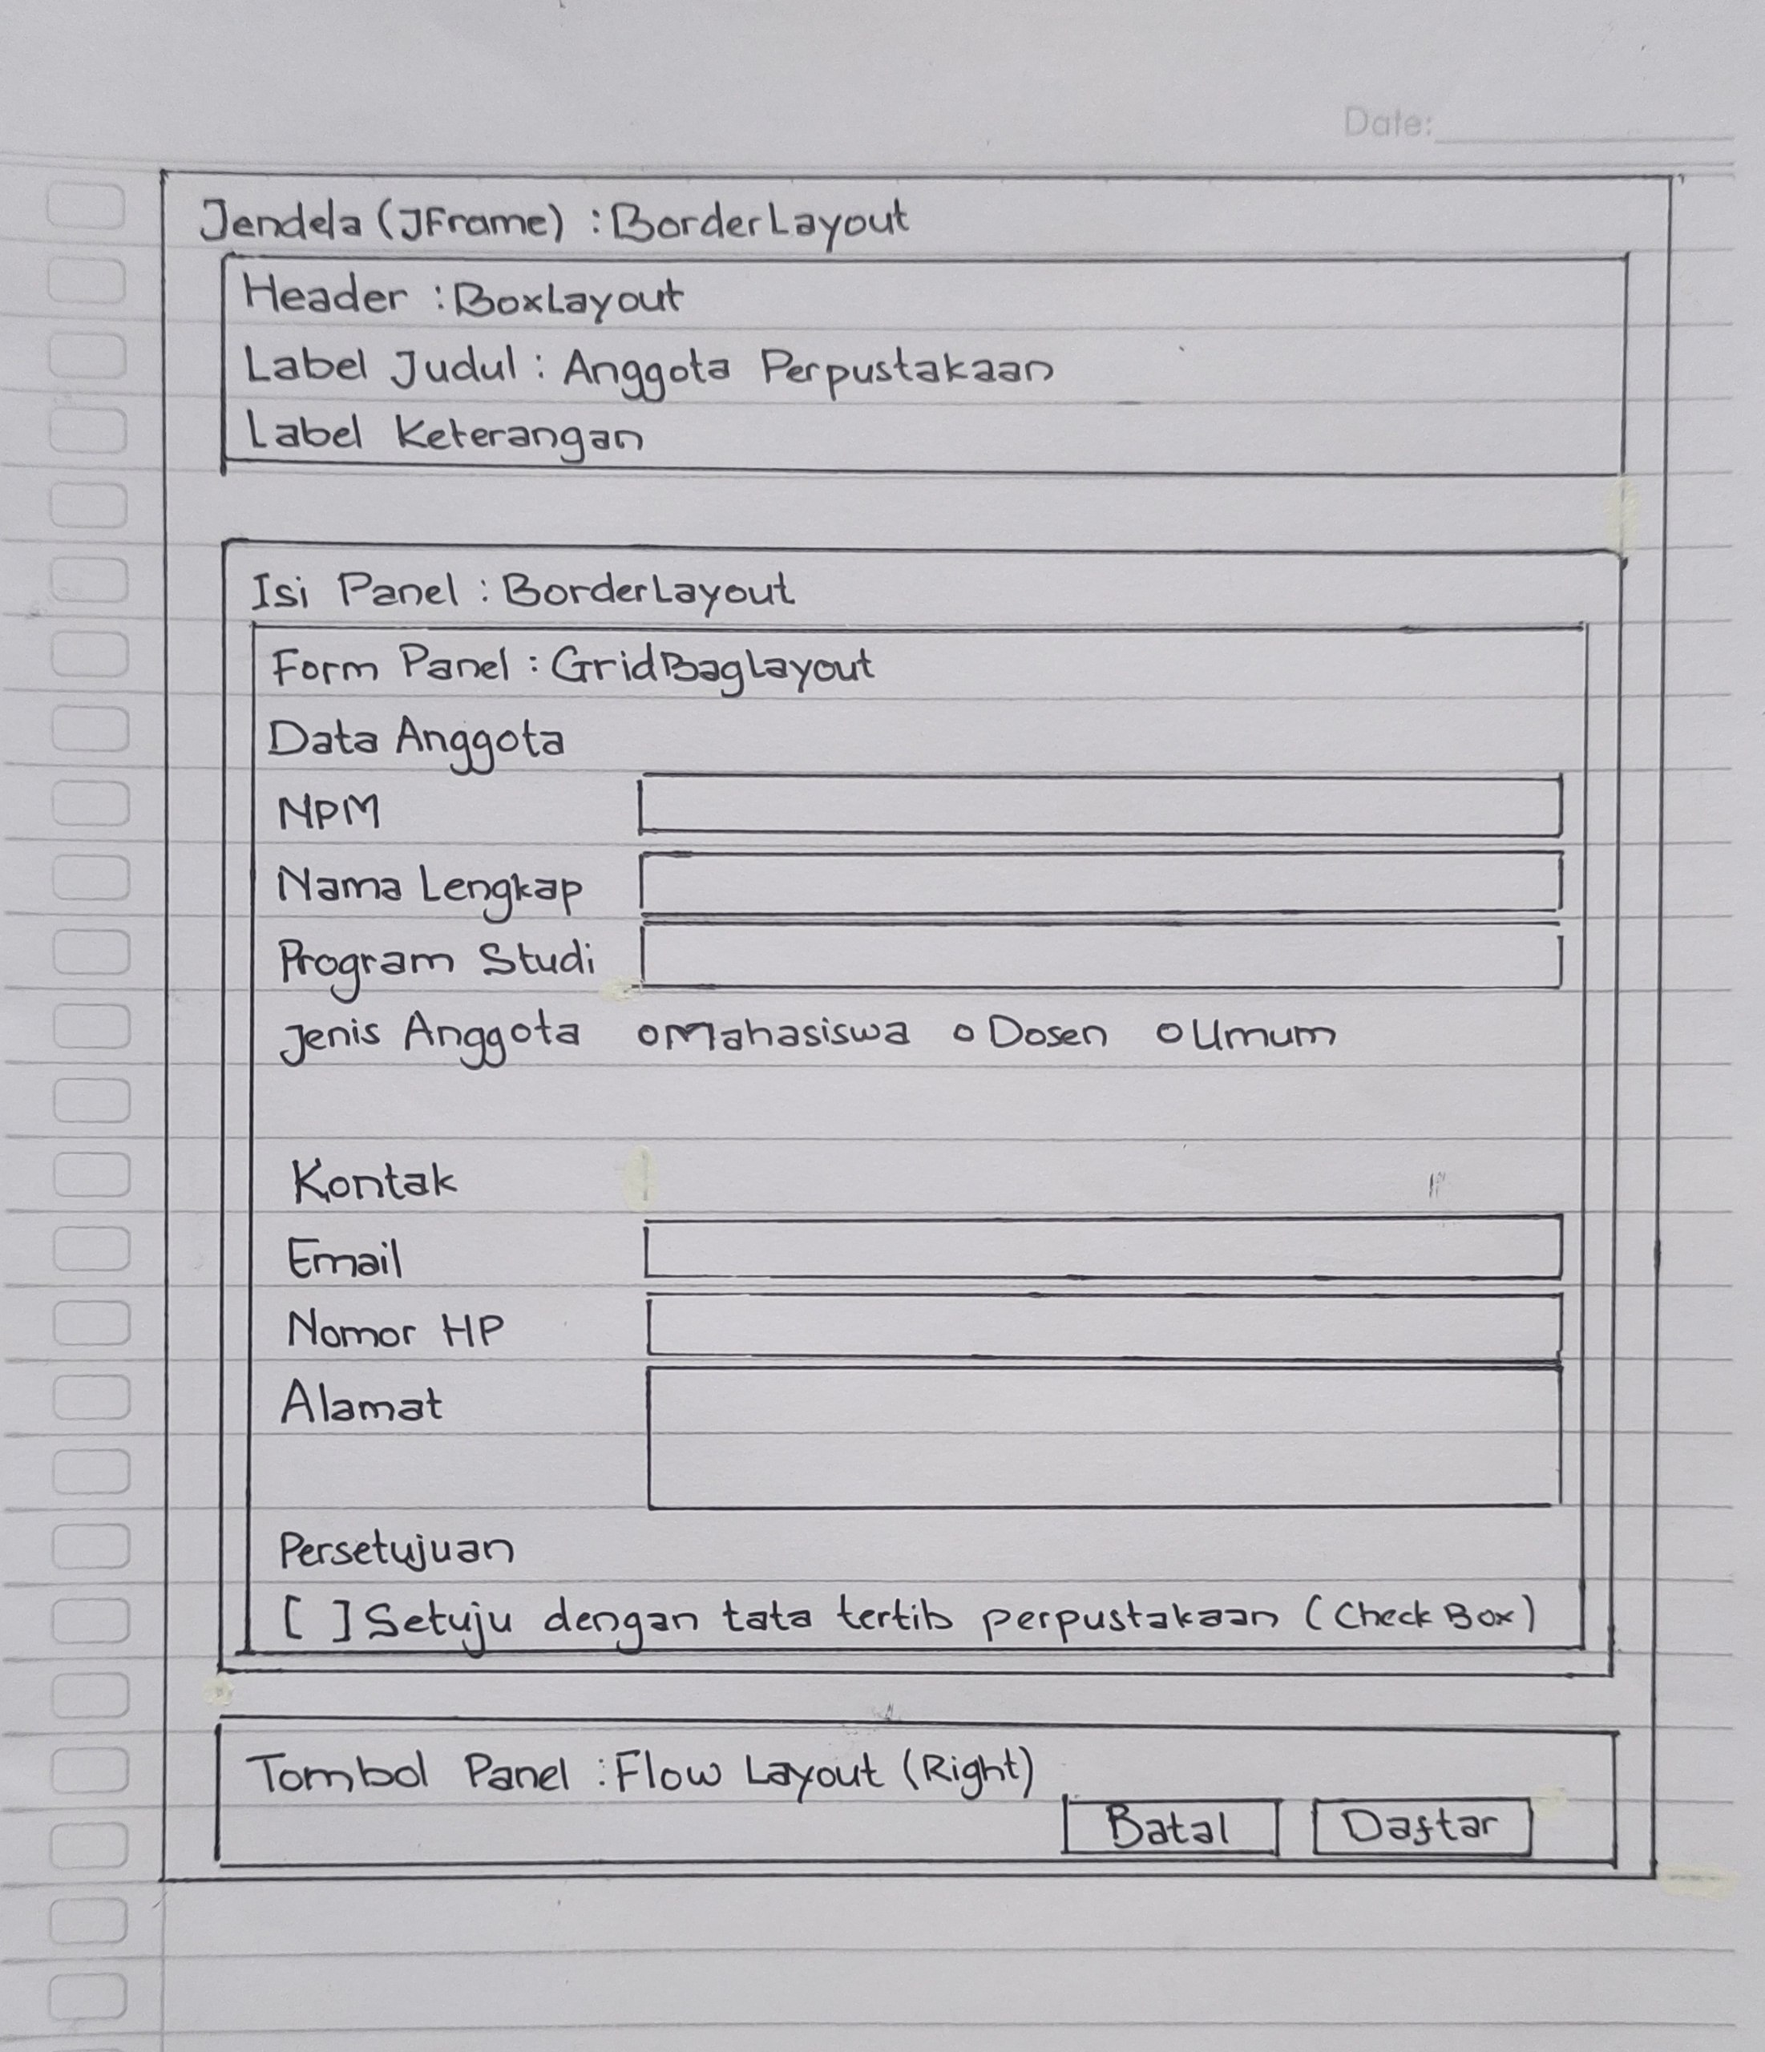
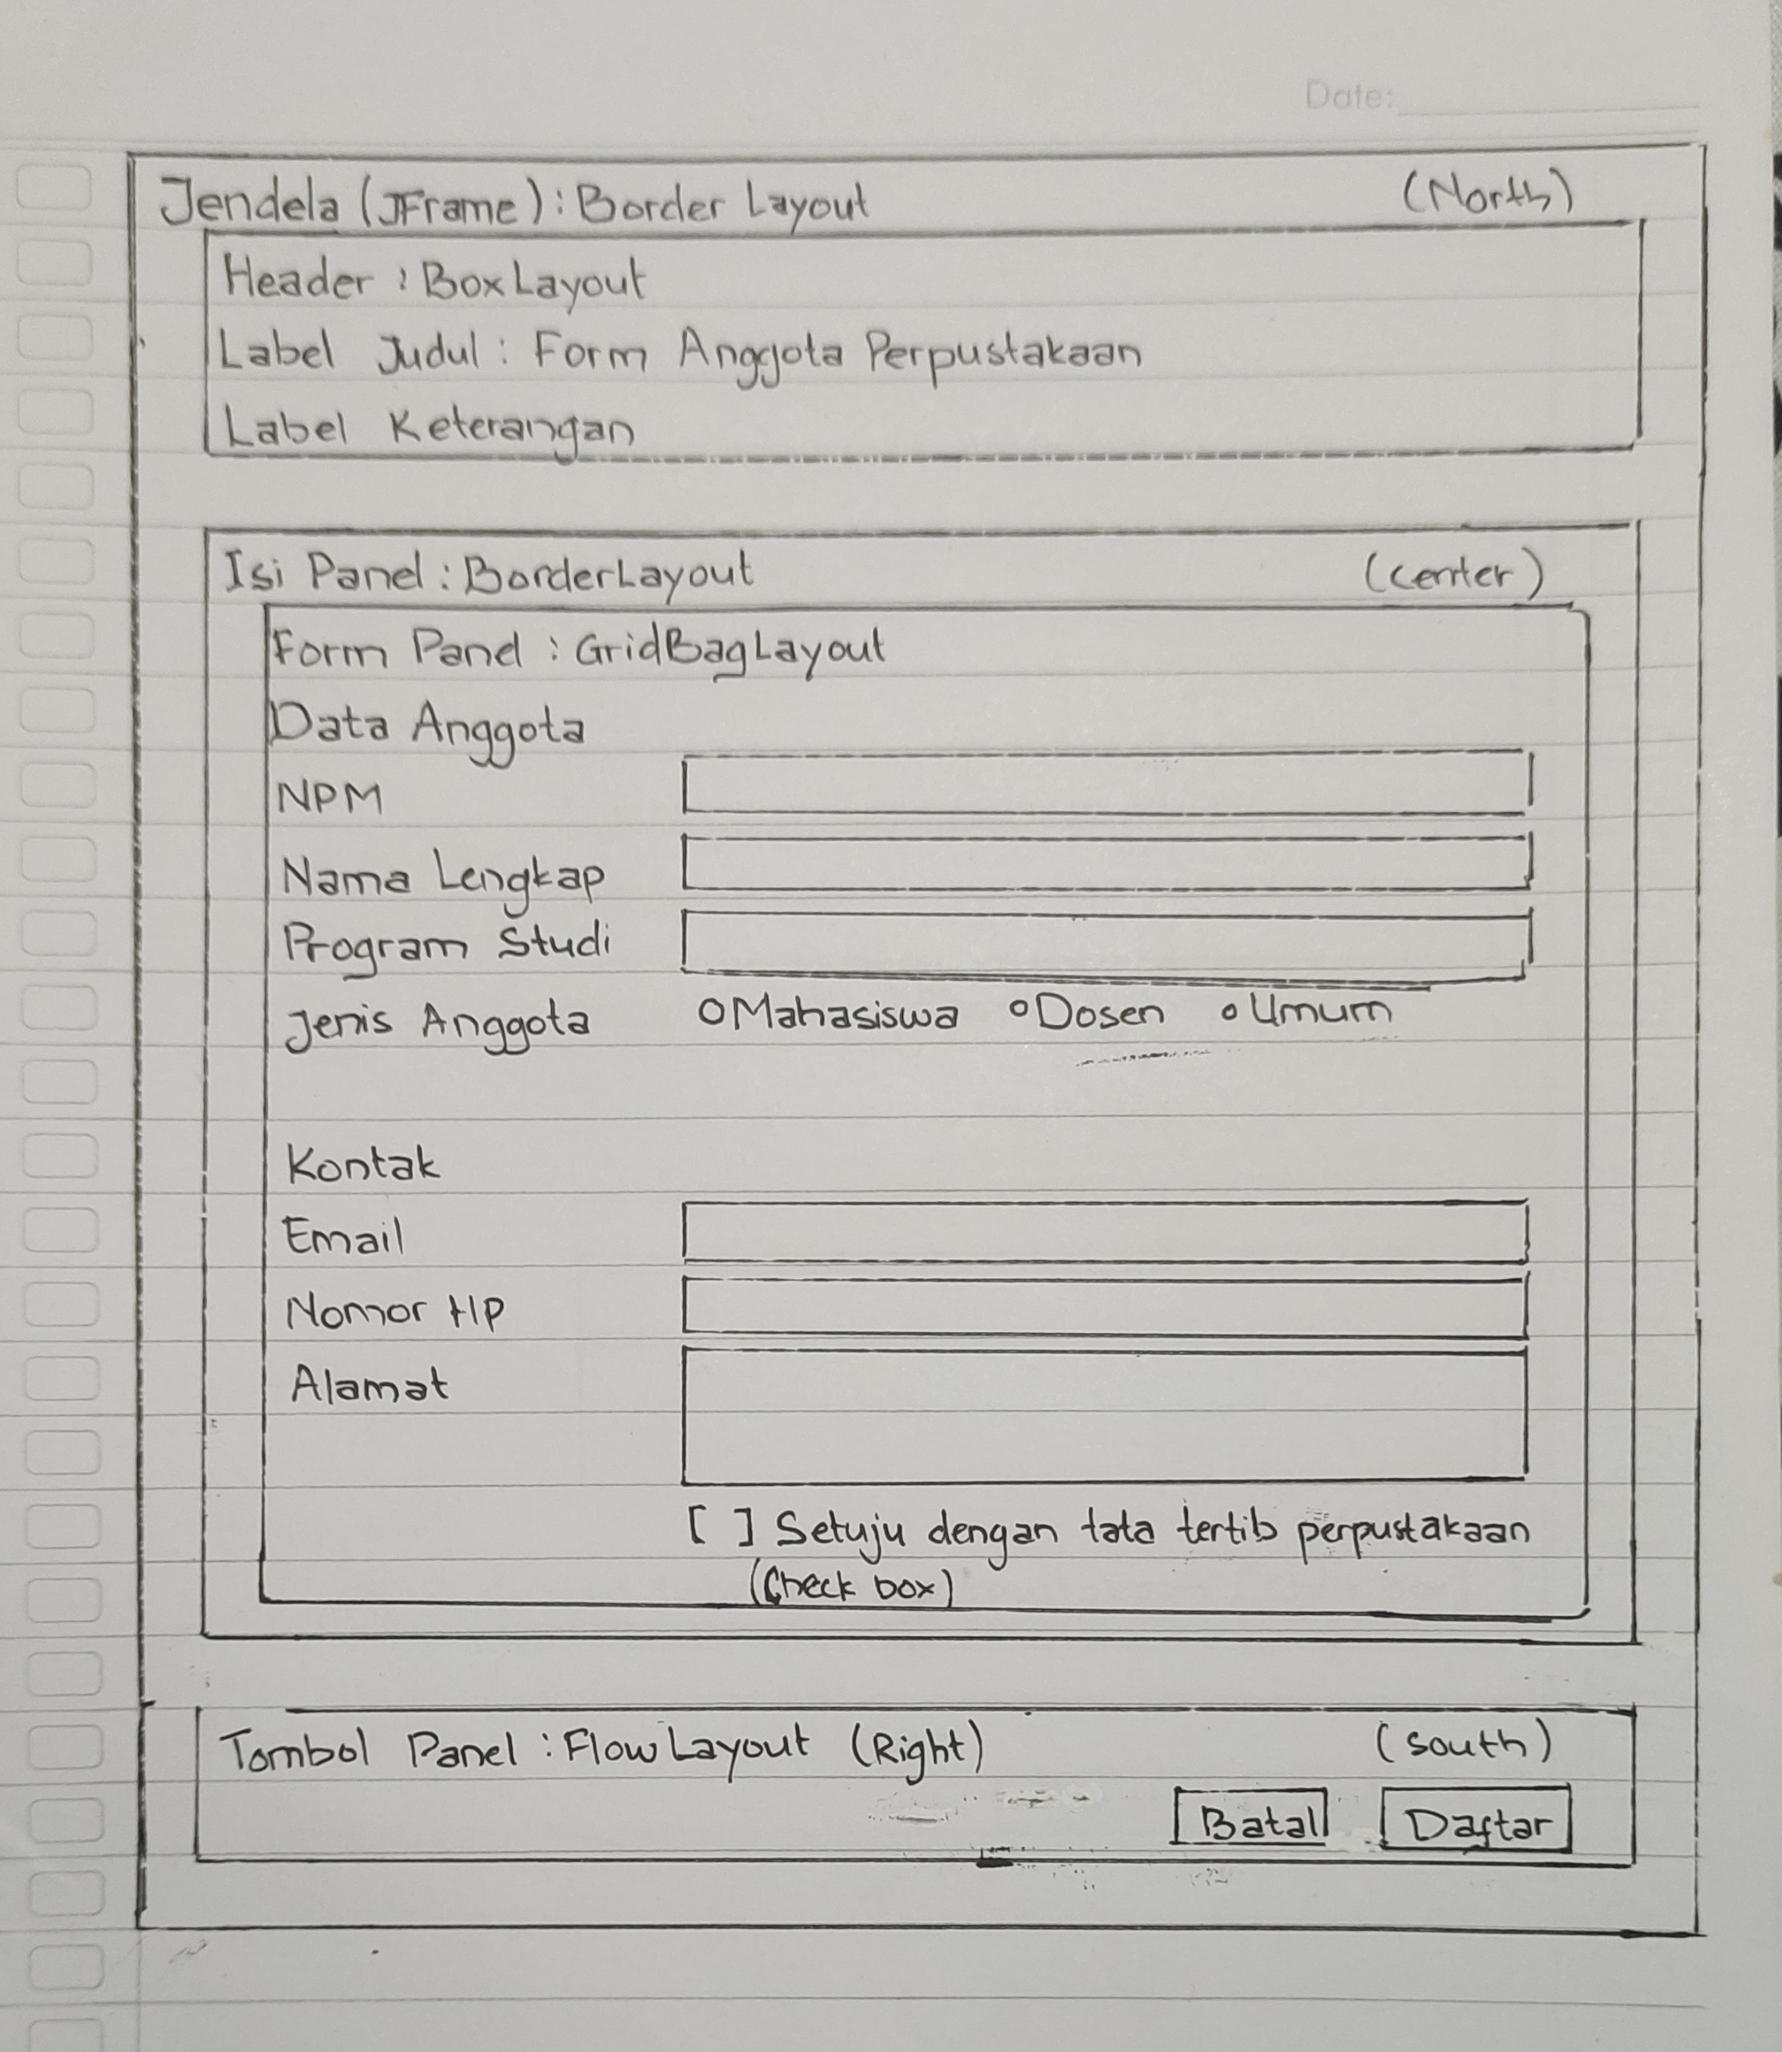
P04: memperbaiki penempatan pada bagian persetujuanLabel pada FormAnggotaPerpustakaan

Changed region(s): [[0.0, 0.0625, 0.9573, 1.0], [0.9882, 0.0, 1.0, 0.6875], [0.9882, 0.75, 1.0, 0.7812]]

diff --git a/p04-layout-manager/src/main/java/id/ac/uniska/pbo2/p04/FormAnggotaPerpustakaan.java b/p04-layout-manager/src/main/java/id/ac/uniska/pbo2/p04/FormAnggotaPerpustakaan.java
@@ -25,7 +25,6 @@ public class FormAnggotaPerpustakaan extends javax.swing.JFrame {
         keteranganLabel.putClientProperty("FlatLaf.style", "foreground: $Label.disabledForeground");
         dataAnggotaLabel.putClientProperty("FlatLaf.styleClass", "h4");
         kontakLabel.putClientProperty("FlatLaf.styleClass", "h4");
-        persetujuanLabel.putClientProperty("FlatLaf.styleClass", "h4");
         npmField.putClientProperty("JTextField.placeholderText", "2410010001");
         emailField.putClientProperty("JTextField.placeholderText", "nama@contoh.com");
         hpField.putClientProperty("JTextField.placeholderText", "08xxxxxxxxxx");
@@ -47,7 +46,6 @@ public class FormAnggotaPerpustakaan extends javax.swing.JFrame {
         java.awt.GridBagConstraints gridBagConstraints;
 
         jenisAnggotaGroup = new javax.swing.ButtonGroup();
-        jLabel1 = new javax.swing.JLabel();
         headerPanel = new javax.swing.JPanel();
         anggotaPerpusLabel = new javax.swing.JLabel();
         keteranganLabel = new javax.swing.JLabel();
@@ -72,22 +70,19 @@ public class FormAnggotaPerpustakaan extends javax.swing.JFrame {
         alamatLabel = new javax.swing.JLabel();
         alamatScrollPane = new javax.swing.JScrollPane();
         alamatArea = new javax.swing.JTextArea();
-        persetujuanCheckBox = new javax.swing.JCheckBox();
+        persetujuanCheck = new javax.swing.JCheckBox();
         kontakLabel = new javax.swing.JLabel();
-        persetujuanLabel = new javax.swing.JLabel();
         tombolPanel = new javax.swing.JPanel();
         batalButton = new javax.swing.JButton();
         daftarButton = new javax.swing.JButton();
 
-        jLabel1.setText("jLabel1");
-
         setDefaultCloseOperation(javax.swing.WindowConstants.EXIT_ON_CLOSE);
-        setTitle("Anggota Perpustakaan");
+        setTitle("Form Anggota Perpustakaan");
 
         headerPanel.setBorder(javax.swing.BorderFactory.createEmptyBorder(16, 16, 8, 16));
         headerPanel.setLayout(new javax.swing.BoxLayout(headerPanel, javax.swing.BoxLayout.Y_AXIS));
 
-        anggotaPerpusLabel.setText("Anggota Perpustakaan");
+        anggotaPerpusLabel.setText("Form Anggota Perpustakaan");
         headerPanel.add(anggotaPerpusLabel);
 
         keteranganLabel.setText("Lengkapi data berikut untuk mendaftar sebagai anggota perpustakaan.");
@@ -181,7 +176,6 @@ public class FormAnggotaPerpustakaan extends javax.swing.JFrame {
 
         jenisAnggotaGroup.add(umumRadio);
         umumRadio.setText("Umum");
-        umumRadio.addActionListener(this::umumRadioActionPerformed);
         jenisAnggotaPanel.add(umumRadio);
 
         gridBagConstraints = new java.awt.GridBagConstraints();
@@ -216,8 +210,6 @@ public class FormAnggotaPerpustakaan extends javax.swing.JFrame {
         gridBagConstraints.anchor = java.awt.GridBagConstraints.WEST;
         gridBagConstraints.insets = new java.awt.Insets(6, 0, 6, 12);
         formPanel.add(hpLabel, gridBagConstraints);
-
-        hpField.addActionListener(this::hpFieldActionPerformed);
         gridBagConstraints = new java.awt.GridBagConstraints();
         gridBagConstraints.gridx = 1;
         gridBagConstraints.gridy = 7;
@@ -247,14 +239,14 @@ public class FormAnggotaPerpustakaan extends javax.swing.JFrame {
         gridBagConstraints.insets = new java.awt.Insets(4, 0, 4, 0);
         formPanel.add(alamatScrollPane, gridBagConstraints);
 
-        persetujuanCheckBox.setText("Setuju dengan tata tertib perpustakaan");
-        persetujuanCheckBox.addActionListener(this::persetujuanCheckBoxActionPerformed);
+        persetujuanCheck.setText("Setuju dengan tata tertib perpustakaan");
         gridBagConstraints = new java.awt.GridBagConstraints();
-        gridBagConstraints.gridx = 0;
-        gridBagConstraints.gridy = 10;
+        gridBagConstraints.gridx = 1;
+        gridBagConstraints.gridy = 9;
         gridBagConstraints.gridwidth = 2;
         gridBagConstraints.anchor = java.awt.GridBagConstraints.WEST;
-        formPanel.add(persetujuanCheckBox, gridBagConstraints);
+        gridBagConstraints.insets = new java.awt.Insets(4, 0, 4, 0);
+        formPanel.add(persetujuanCheck, gridBagConstraints);
 
         kontakLabel.setText("Kontak");
         gridBagConstraints = new java.awt.GridBagConstraints();
@@ -264,15 +256,6 @@ public class FormAnggotaPerpustakaan extends javax.swing.JFrame {
         gridBagConstraints.anchor = java.awt.GridBagConstraints.WEST;
         gridBagConstraints.insets = new java.awt.Insets(16, 0, 6, 0);
         formPanel.add(kontakLabel, gridBagConstraints);
-
-        persetujuanLabel.setText("Persetujuan");
-        gridBagConstraints = new java.awt.GridBagConstraints();
-        gridBagConstraints.gridx = 0;
-        gridBagConstraints.gridy = 9;
-        gridBagConstraints.gridwidth = 2;
-        gridBagConstraints.anchor = java.awt.GridBagConstraints.WEST;
-        gridBagConstraints.insets = new java.awt.Insets(16, 0, 6, 0);
-        formPanel.add(persetujuanLabel, gridBagConstraints);
 
         isiPanel.add(formPanel, java.awt.BorderLayout.NORTH);
 
@@ -292,18 +275,6 @@ public class FormAnggotaPerpustakaan extends javax.swing.JFrame {
 
         pack();
     }// </editor-fold>//GEN-END:initComponents
-
-    private void umumRadioActionPerformed(java.awt.event.ActionEvent evt) {//GEN-FIRST:event_umumRadioActionPerformed
-        // TODO add your handling code here:
-    }//GEN-LAST:event_umumRadioActionPerformed
-
-    private void persetujuanCheckBoxActionPerformed(java.awt.event.ActionEvent evt) {//GEN-FIRST:event_persetujuanCheckBoxActionPerformed
-        // TODO add your handling code here:
-    }//GEN-LAST:event_persetujuanCheckBoxActionPerformed
-
-    private void hpFieldActionPerformed(java.awt.event.ActionEvent evt) {//GEN-FIRST:event_hpFieldActionPerformed
-        // TODO add your handling code here:
-    }//GEN-LAST:event_hpFieldActionPerformed
 
     private void batalButtonActionPerformed(java.awt.event.ActionEvent evt) {//GEN-FIRST:event_batalButtonActionPerformed
         // TODO add your handling code here:
@@ -335,7 +306,6 @@ public class FormAnggotaPerpustakaan extends javax.swing.JFrame {
     private javax.swing.JTextField hpField;
     private javax.swing.JLabel hpLabel;
     private javax.swing.JPanel isiPanel;
-    private javax.swing.JLabel jLabel1;
     private javax.swing.ButtonGroup jenisAnggotaGroup;
     private javax.swing.JLabel jenisAnggotaLabel;
     private javax.swing.JPanel jenisAnggotaPanel;
@@ -346,8 +316,7 @@ public class FormAnggotaPerpustakaan extends javax.swing.JFrame {
     private javax.swing.JLabel namaLabel;
     private javax.swing.JTextField npmField;
     private javax.swing.JLabel npmLabel;
-    private javax.swing.JCheckBox persetujuanCheckBox;
-    private javax.swing.JLabel persetujuanLabel;
+    private javax.swing.JCheckBox persetujuanCheck;
     private javax.swing.JComboBox<String> prodiCombo;
     private javax.swing.JLabel prodiLabel;
     private javax.swing.JPanel tombolPanel;

diff --git a/p04-layout-manager/README.md b/p04-layout-manager/README.md
@@ -59,7 +59,7 @@ Nama Teman: Ariefa Salsabilla Azzahra (2410010519)
 |4 | Komponen sesuai jenis data|Ya|
 |5 | Tombol utama menonjol dan berada di kanan bawah|Ya|
 |6 | Jarak antar komponen konsisten|Ya|
-|7 | Form tetap rapi saat jendela dilebarkan dan ditinggikan|Ya (dilebarkan rapi; saat ditinggikan belum terlihat di screenshot)|
+|7 | Form tetap rapi saat jendela dilebarkan dan ditinggikan|Ya|
 |8 | Tampilan dibuat dengan JFrame Form dan layout manager bukan Null Layout atau Absolute Layout|Ya|
 
 Saran: Saran dari saya hapus P04LayoutManager.java bawaan wizard karena panduan meminta file itu dihapus.
